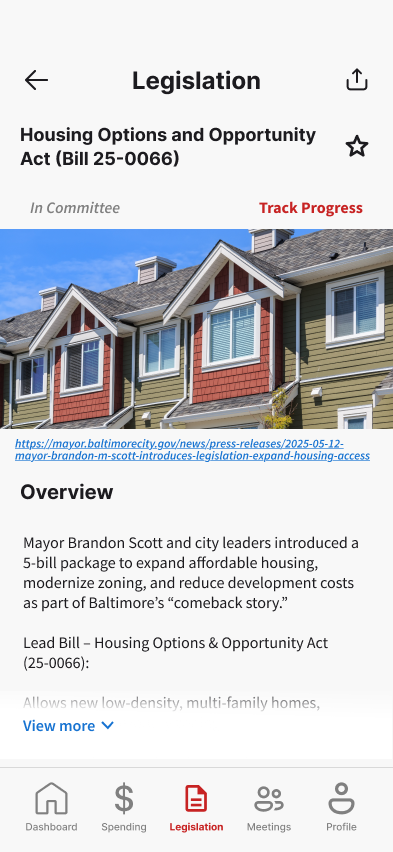
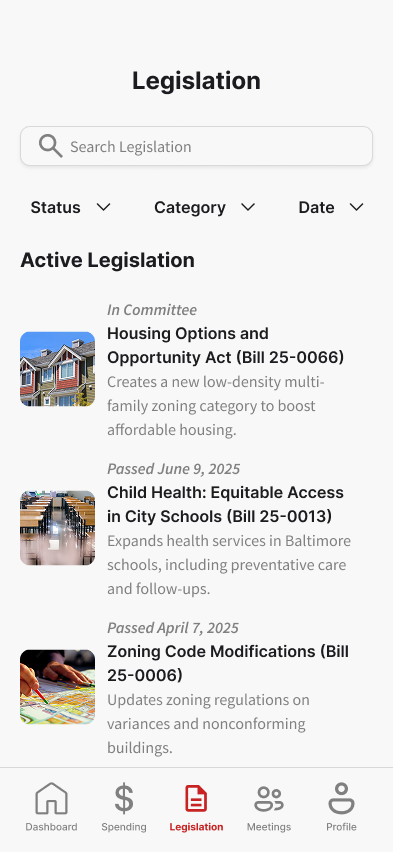
feat(civicpulse): replace the five-tile feature list with a one-card screen carousel
Five stacked text-only tiles took up space without showing any actual
UI. Replaced with a single card showing the real hi-fi screens
(Dashboard, Legislation, Spending, Meetings, Onboarding), navigated
with prev/next arrows and dot indicators, vanilla JS, no dependencies.

Swapped the provided Onboarding (Login) screen for Onboarding (ZIP)
instead, since the case study copy specifically describes the ZIP-code
ask and Skip option, which only the ZIP screen actually shows.

Claude-Session: https://claude.ai/code/session_01AfTpwKRk9iE79j7Rya5EjF

diff --git a/civicpulse.html b/civicpulse.html
@@ -148,26 +148,69 @@
     <div class="case-section">
       <div class="prose"><h2 class="type-h2">Five screens, one thread: earn the trust before you ask for it</h2></div>
 
-      <div class="tile-grid tile-grid-prose">
-        <div class="tile">
-          <h3 class="type-h3">Dashboard</h3>
-          <p class="type-body">Starts with what a resident already follows, not a firehose of everything happening city-wide. Starred bills, nearby meetings, local initiatives.</p>
+      <div class="feature-carousel">
+        <div class="feature-carousel-card">
+          <button class="carousel-arrow carousel-prev" type="button" aria-label="Previous screen">‹</button>
+
+          <div class="feature-slide is-active" data-slide="0">
+            <div class="shot-frame">
+              <img src="assets/civicpulse-dashboard.png" alt="CivicPulse Dashboard: starred bills, an upcoming committee meeting, and a local neighborhood initiative">
+            </div>
+            <div class="feature-slide-copy">
+              <p class="type-label-upper">Dashboard</p>
+              <p class="type-body">Starts with what a resident already follows, not a firehose of everything happening city-wide. Starred bills, nearby meetings, local initiatives.</p>
+            </div>
+          </div>
+
+          <div class="feature-slide" data-slide="1">
+            <div class="shot-frame">
+              <img src="assets/civicpulse-legislation.png" alt="CivicPulse Legislation: active bills with plain-language status like In Committee or Passed, next to a short summary">
+            </div>
+            <div class="feature-slide-copy">
+              <p class="type-label-upper">Legislation</p>
+              <p class="type-body">Plain-language status ("In Committee") next to a real source link. People don't just want it simplified, they want to verify it wasn't simplified into something misleading.</p>
+            </div>
+          </div>
+
+          <div class="feature-slide" data-slide="2">
+            <div class="shot-frame">
+              <img src="assets/civicpulse-spending.png" alt="CivicPulse Spending: budget data reorganized by neighborhood, listing Bridgeview-Greenlawn, Park Heights, and Harwood with estimated budgets">
+            </div>
+            <div class="feature-slide-copy">
+              <p class="type-label-upper">Spending</p>
+              <p class="type-body">The same budget data cities publish by department, reorganized by neighborhood instead: Park Heights, Harwood, Bridgeview-Greenlawn. Same numbers, a geography residents actually live in.</p>
+            </div>
+          </div>
+
+          <div class="feature-slide" data-slide="3">
+            <div class="shot-frame">
+              <img src="assets/civicpulse-meetings.png" alt="CivicPulse Meetings: a monthly calendar above a list of upcoming meetings, each with a one-tap RSVP button">
+            </div>
+            <div class="feature-slide-copy">
+              <p class="type-label-upper">Meetings</p>
+              <p class="type-body">A calendar with one-tap RSVP. Not clever, just fixing the constant complaint that hearings happen without anyone finding out in time.</p>
+            </div>
+          </div>
+
+          <div class="feature-slide" data-slide="4">
+            <div class="shot-frame">
+              <img src="assets/civicpulse-onboarding.png" alt="CivicPulse Onboarding: a ZIP code prompt stating the data is only used to track local legislation, with a visible Skip link">
+            </div>
+            <div class="feature-slide-copy">
+              <p class="type-label-upper">Onboarding</p>
+              <p class="type-body">Asks for a ZIP code, states the reason in the same breath, and lets you skip without penalty. Geo-personalization loses trust fast when it isn't transparent.</p>
+            </div>
+          </div>
+
+          <button class="carousel-arrow carousel-next" type="button" aria-label="Next screen">›</button>
         </div>
-        <div class="tile">
-          <h3 class="type-h3">Legislation</h3>
-          <p class="type-body">Plain-language status ("In Committee") next to a real source link. People don't just want it simplified, they want to verify it wasn't simplified into something misleading.</p>
-        </div>
-        <div class="tile">
-          <h3 class="type-h3">Spending</h3>
-          <p class="type-body">The same budget data cities publish by department, reorganized by neighborhood instead: Park Heights, Harwood, Bridgeview-Greenlawn. Same numbers, a geography residents actually live in.</p>
-        </div>
-        <div class="tile">
-          <h3 class="type-h3">Meetings</h3>
-          <p class="type-body">A calendar with one-tap RSVP. Not clever, just fixing the constant complaint that hearings happen without anyone finding out in time.</p>
-        </div>
-        <div class="tile">
-          <h3 class="type-h3">Onboarding</h3>
-          <p class="type-body">Asks for a ZIP code, states the reason in the same breath, and lets you skip without penalty. Geo-personalization loses trust fast when it isn't transparent.</p>
+
+        <div class="carousel-dots">
+          <button class="carousel-dot is-active" data-goto="0" aria-label="Go to Dashboard"></button>
+          <button class="carousel-dot" data-goto="1" aria-label="Go to Legislation"></button>
+          <button class="carousel-dot" data-goto="2" aria-label="Go to Spending"></button>
+          <button class="carousel-dot" data-goto="3" aria-label="Go to Meetings"></button>
+          <button class="carousel-dot" data-goto="4" aria-label="Go to Onboarding"></button>
         </div>
       </div>
     </div>
@@ -228,6 +271,25 @@
     <p class="type-caption">© 2026 Spencer Grant's Portfolio: UX / Product Designer</p>
   </div>
 </footer>
+
+<script>
+(function () {
+  var slides = Array.prototype.slice.call(document.querySelectorAll('.feature-slide'));
+  var dots = Array.prototype.slice.call(document.querySelectorAll('.carousel-dot'));
+  if (!slides.length) return;
+  var index = 0;
+
+  function show(i) {
+    index = (i + slides.length) % slides.length;
+    slides.forEach(function (slide, n) { slide.classList.toggle('is-active', n === index); });
+    dots.forEach(function (dot, n) { dot.classList.toggle('is-active', n === index); });
+  }
+
+  document.querySelector('.carousel-prev').addEventListener('click', function () { show(index - 1); });
+  document.querySelector('.carousel-next').addEventListener('click', function () { show(index + 1); });
+  dots.forEach(function (dot, n) { dot.addEventListener('click', function () { show(n); }); });
+})();
+</script>
 
 </body>
 </html>

diff --git a/styles.css b/styles.css
@@ -440,6 +440,61 @@ section { padding: var(--sp-3xl) 0; }
 .tile .source { margin-top: auto; padding-top: var(--sp-sm); }
 .tile a { font-size: 14px; font-weight: 600; text-decoration: underline; margin-top: auto; padding-top: var(--sp-sm); }
 
+/* One-card, arrow-navigated feature carousel (CivicPulse "Five screens") */
+.feature-carousel-card {
+  background: var(--surface-default);
+  border: 1px solid var(--border-default);
+  border-radius: 8px;
+  padding: var(--sp-lg);
+  margin-top: var(--sp-lg);
+  display: flex;
+  align-items: center;
+  gap: var(--sp-lg);
+}
+.feature-slide {
+  display: none;
+  flex: 1;
+  grid-template-columns: 200px 1fr;
+  gap: var(--sp-xl);
+  align-items: center;
+}
+.feature-slide.is-active { display: grid; }
+.feature-slide .shot-frame { max-width: 200px; margin: 0 auto; }
+.feature-slide-copy .type-label-upper { margin-bottom: var(--sp-sm); }
+.carousel-arrow {
+  flex-shrink: 0;
+  width: 36px;
+  height: 36px;
+  border-radius: 999px;
+  border: 1px solid var(--border-default);
+  background: var(--surface-muted);
+  color: var(--text-primary);
+  font-size: 20px;
+  line-height: 1;
+  cursor: pointer;
+}
+.carousel-arrow:hover { background: var(--border-default); }
+.carousel-dots {
+  display: flex;
+  justify-content: center;
+  gap: var(--sp-sm);
+  margin-top: var(--sp-md);
+}
+.carousel-dot {
+  width: 8px;
+  height: 8px;
+  padding: 0;
+  border: none;
+  border-radius: 50%;
+  background: var(--border-default);
+  cursor: pointer;
+}
+.carousel-dot.is-active { background: var(--text-primary); }
+@media (max-width: 640px) {
+  .feature-carousel-card { flex-direction: column; }
+  .feature-slide { grid-template-columns: 1fr; }
+}
+
 /* Citation links inside a .source line are references, not CTAs — undo
    the bold "Read more" tile-link treatment above. */
 .tile .source a,
